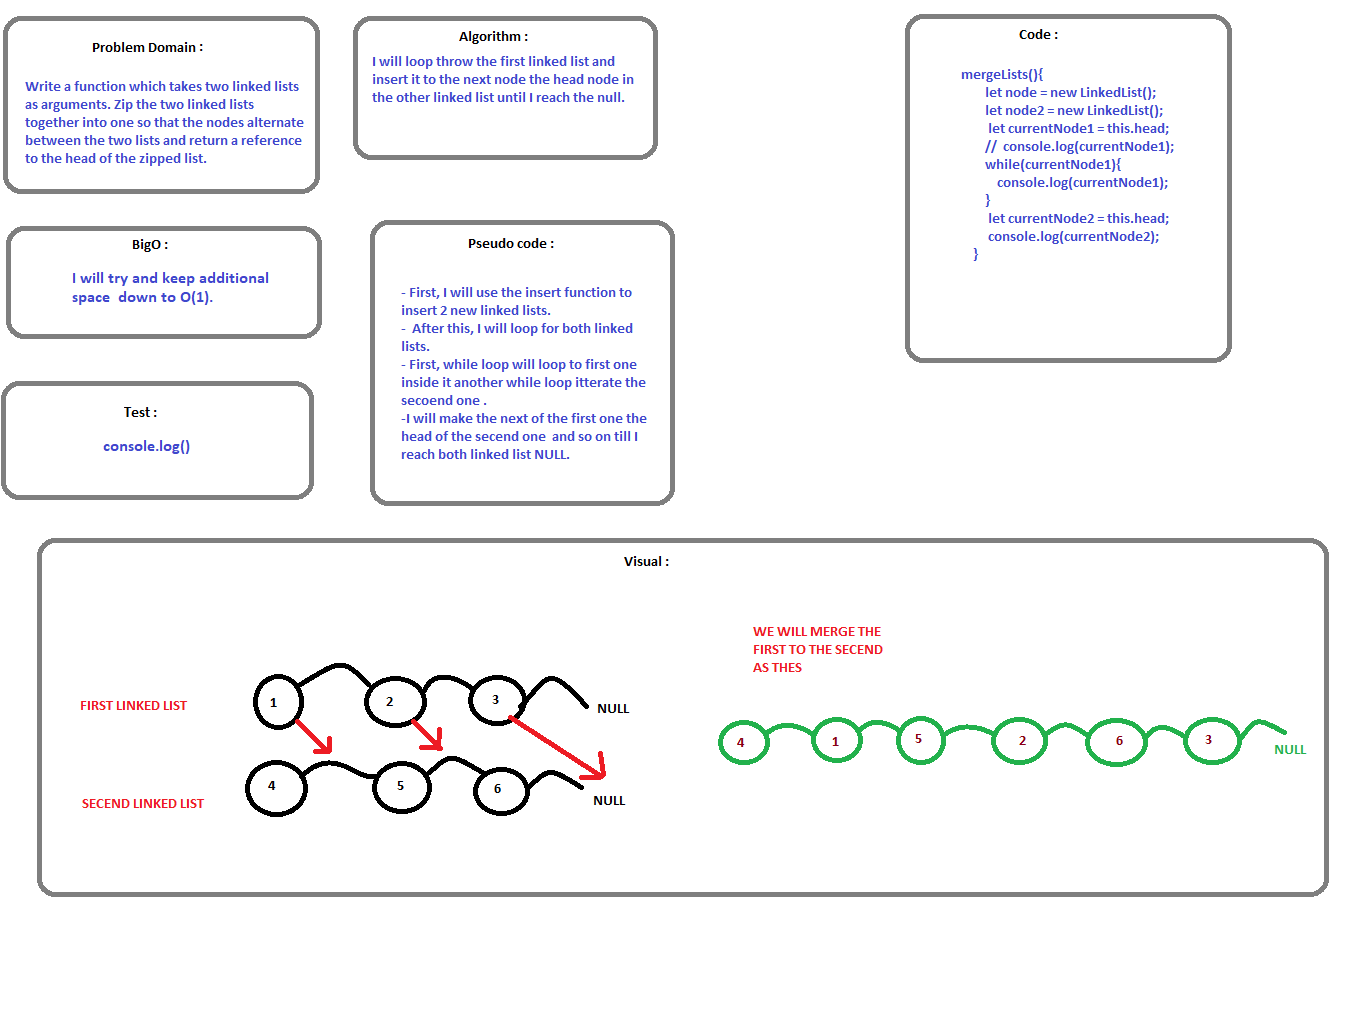
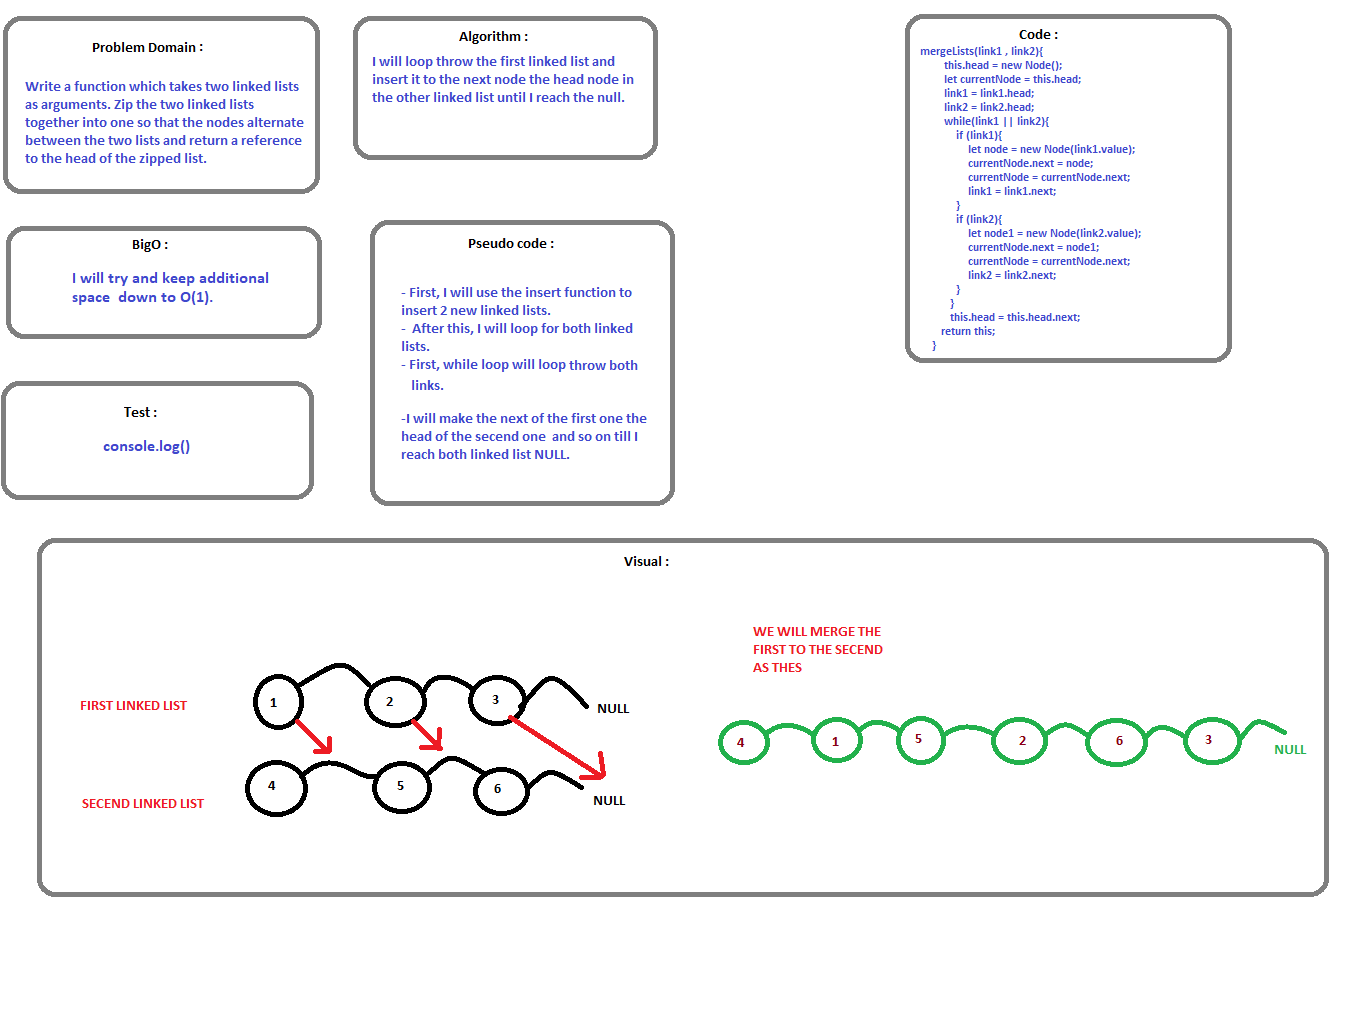
done

Changed region(s): [[0.6794, 0.0312, 0.8647, 0.3438], [0.2779, 0.3438, 0.4632, 0.4062]]

diff --git a/challenges/linkedList/linked-list.js b/challenges/linkedList/linked-list.js
@@ -88,43 +88,45 @@ class LinkedList{
     }
 
     FromEnd(value){
-        // let node = new Node(value); 
+      
         let currentNode= this.head;
-        //  console.log(currentNode.value);
-        //  console.log(this.count);
         let length = 0;
         let index = this.count - value;
-        // console.log(index)
-        // console.log(this.count)
-        // console.log(index);
         while(currentNode){
-            // console.log(length === index , length , index)
-            // console.log(value);
-            // console.log(length)
             if(length === index ){
-                // console.log(currentNode.value);
                 return currentNode.value;
             }
             else if(this.count > value || value < 0){
                 return 'Exception';
-                // console.log('Exception');
             }
             currentNode = currentNode.next;   
             length = length+1;
         }
     }
 
-    // mergeLists(){
-    //     let node = new LinkedList();
-    //     let node2 = new LinkedList();
-    //      let currentNode1 = this.head;
-    //     //  console.log(currentNode1);
-    //     while(currentNode1){
-    //         console.log(currentNode1);
-    //     }
-    //      let currentNode2 = this.head;
-    //      console.log(currentNode2);
-    // }
+    mergeLists(link1 , link2){
+        this.head = new Node();
+        let currentNode = this.head;
+        link1 = link1.head;
+        link2 = link2.head;
+        while(link1 || link2){
+            if (link1){
+                let node = new Node(link1.value);
+                currentNode.next = node;
+                currentNode = currentNode.next;
+                link1 = link1.next;
+            }
+            if (link2){
+                let node1 = new Node(link2.value);
+                currentNode.next = node1;
+                currentNode = currentNode.next;
+                link2 = link2.next;
+            }
+               
+          }    
+          this.head = this.head.next; 
+       return this;
+    }
 
     // Palindrome(linkedList) {
     //     let arrayCurrentLinkedList = linkedList;
@@ -143,17 +145,23 @@ class LinkedList{
 module.exports = LinkedList;
 
 
-let node = new LinkedList();
-let node2 = new LinkedList();
-node2.insert(14);
-node2.insert(14);
-node2.insert(14);
-node.insert(1);
-node.insert(3);
-node.insert(2);
-console.log(node.toString())
-console.log(node2.toString())
-node.mergeLists()
+// let node = new LinkedList();
+// let node2 = new LinkedList();
+// let l = new LinkedList()
+// node2.insert(14);
+// node2.insert(14);
+// node2.insert(14);
+
+// node.insert(1);
+// node.insert(3);
+// node.insert(2);
+// node.insert(5)
+// node.insert(7)
+// l.mergeLists(node , node2)
+// console.log(l.toString())
+// console.log(node.toString())
+// console.log(node2.toString())
+// node.mergeLists()
 // console.log(node.includes(5));
 // console.log(node.toString())
 // console.log(node.insertBefore(3,14))
